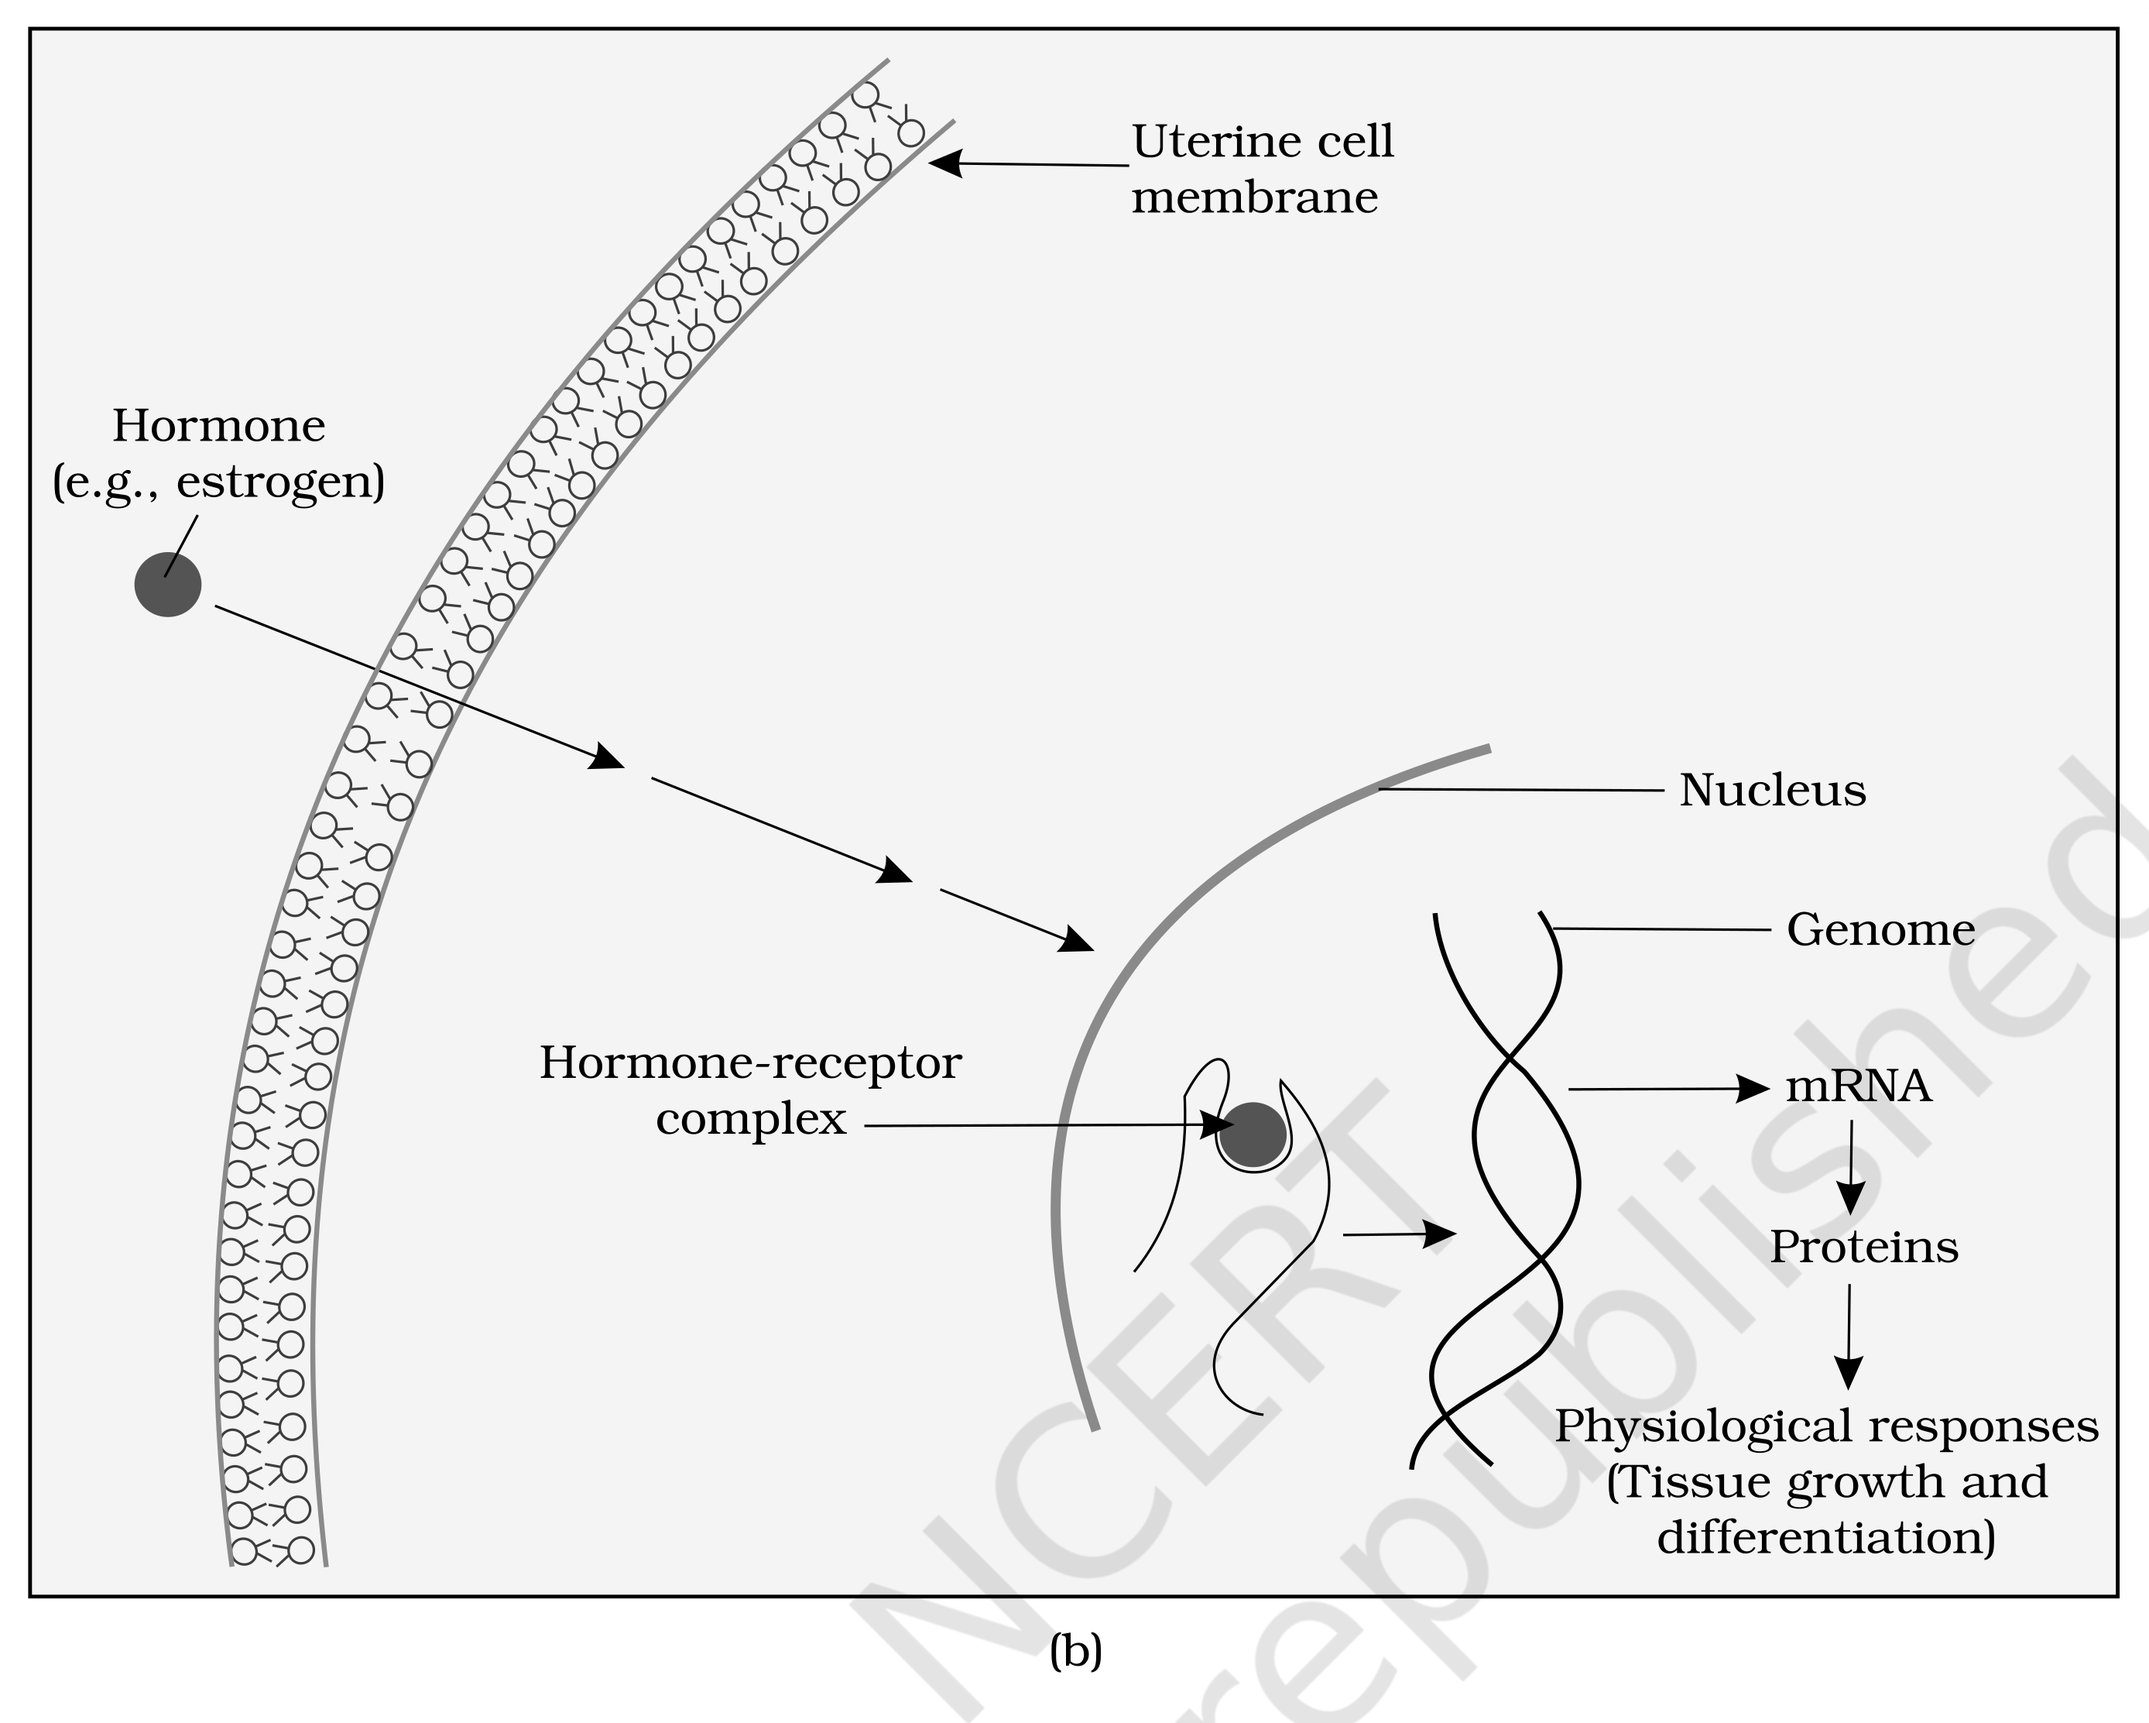
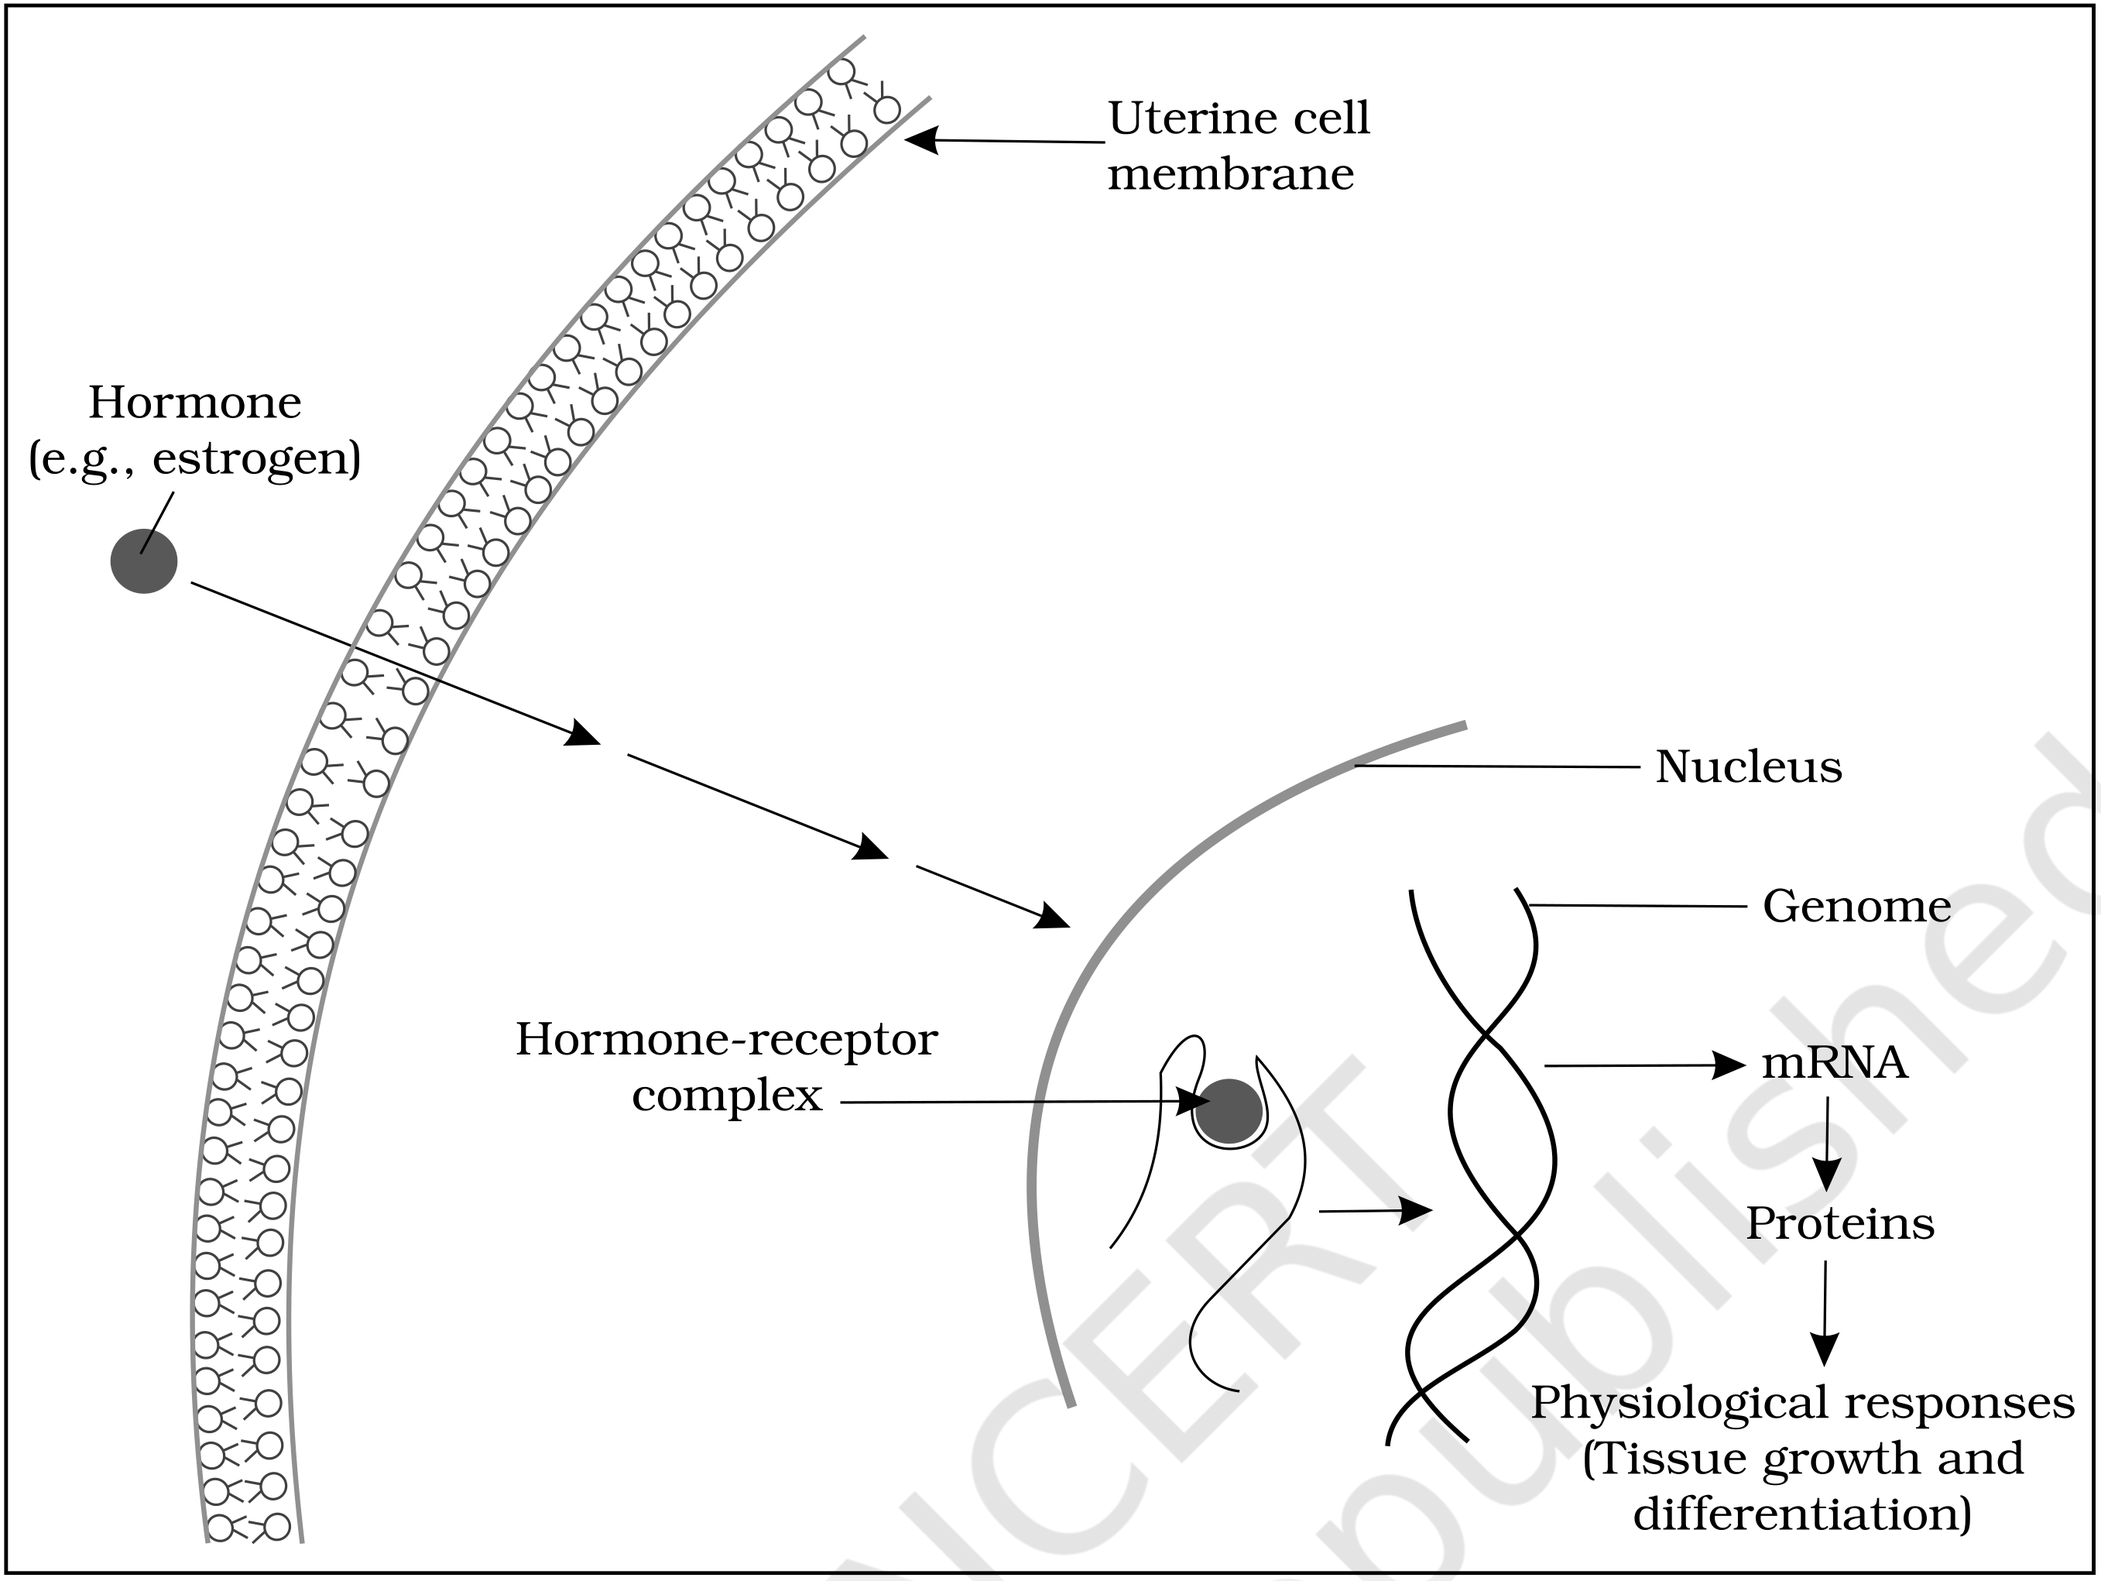
Tight crop Chapter 19 hormone mechanism boxes

diff --git a/notes/class 11/Ch19_ChemicalCoordinationAndIntegration/extract_figures.py b/notes/class 11/Ch19_ChemicalCoordinationAndIntegration/extract_figures.py
@@ -24,10 +24,10 @@ FIGS = [
     # p6: the two adrenal subfigures are interleaved horizontally; a single
     # combined crop preserves both complete panels, labels, and connector.
     ("19_4", 6, (135, 235, 520, 518)),
-    # p10: protein-hormone mechanism panel (a); vector plate x=74.8..530.4 y=371.0..623.7.
-    ("19_5a", 10, (68, 365, 536, 638)),
-    # p11: steroid-hormone mechanism panel (b); vector plate x=40.2..481.5 y=88.0..419.4.
-    ("19_5b", 11, (34, 82, 488, 446)),
+    # p10: protein-hormone mechanism panel (a), cropped to the existing box border.
+    ("19_5a", 10, (74, 370, 531, 624)),
+    # p11: steroid-hormone mechanism panel (b), cropped to the existing box border.
+    ("19_5b", 11, (39, 87, 483, 421)),
 ]
 
 def main():

diff --git a/scratch/measure_fig19_5_boxes.py b/scratch/measure_fig19_5_boxes.py
@@ -1,0 +1,11 @@
+from PIL import Image
+import numpy as np
+base='notes/class 11/Ch19_ChemicalCoordinationAndIntegration/assets'
+for fid in ['19_5a','19_5b']:
+    im=Image.open(f'{base}/fig_{fid}.png').convert('L')
+    a=np.array(im)
+    # dark-pixel counts by row/column; the box is the long near-black rectangle.
+    row=(a<80).sum(axis=1); col=(a<80).sum(axis=0)
+    print(fid, 'size', im.size)
+    print('rows', sorted(enumerate(row), key=lambda x:x[1], reverse=True)[:12])
+    print('cols', sorted(enumerate(col), key=lambda x:x[1], reverse=True)[:12])

diff --git a/notes/class 11/Ch19_ChemicalCoordinationAndIntegration/Ch19_ChemicalCoordinationAndIntegration_inventory.md b/notes/class 11/Ch19_ChemicalCoordinationAndIntegration/Ch19_ChemicalCoordinationAndIntegration_inventory.md
@@ -18,4 +18,4 @@ The reproducible extractor is `extract_figures.py`. The 4× grid renderer is `sc
 
 Figure 19.4 is intentionally delivered as one combined asset because its two panels are interleaved horizontally: a rectangular crop that isolates either panel cuts the kidney, labels, or connector. The combined crop preserves both complete panels, the connector, all labels, and both panel markers rather than shipping incomplete subfigures.
 
-All seven emitted assets are high-resolution grayscale PNGs (`mode=L`) generated with autocontrast. The final audit reports clean text-layer and border-band checks for Figures 19.1, 19.2, 19.3a, 19.3b, 19.4, 19.5a, and 19.5b; the vector-extent check is not applicable to the raster artwork in Figure 19.4.
+All seven emitted assets are high-resolution grayscale PNGs (`mode=L`) generated with autocontrast. Figures 19.5a and 19.5b are cropped tightly to their existing rectangular box borders; no new box or content alteration was applied. The final audit reports clean text-layer and border-band checks for Figures 19.1, 19.2, 19.3a, 19.3b, 19.4, 19.5a, and 19.5b; the vector-extent check is not applicable to the raster artwork in Figure 19.4.
